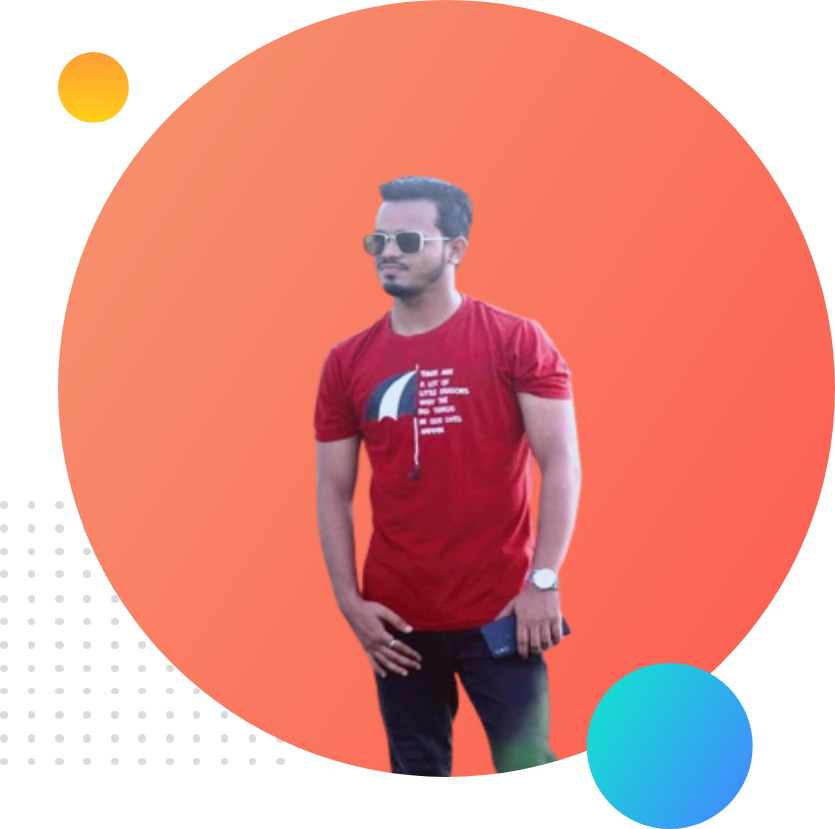
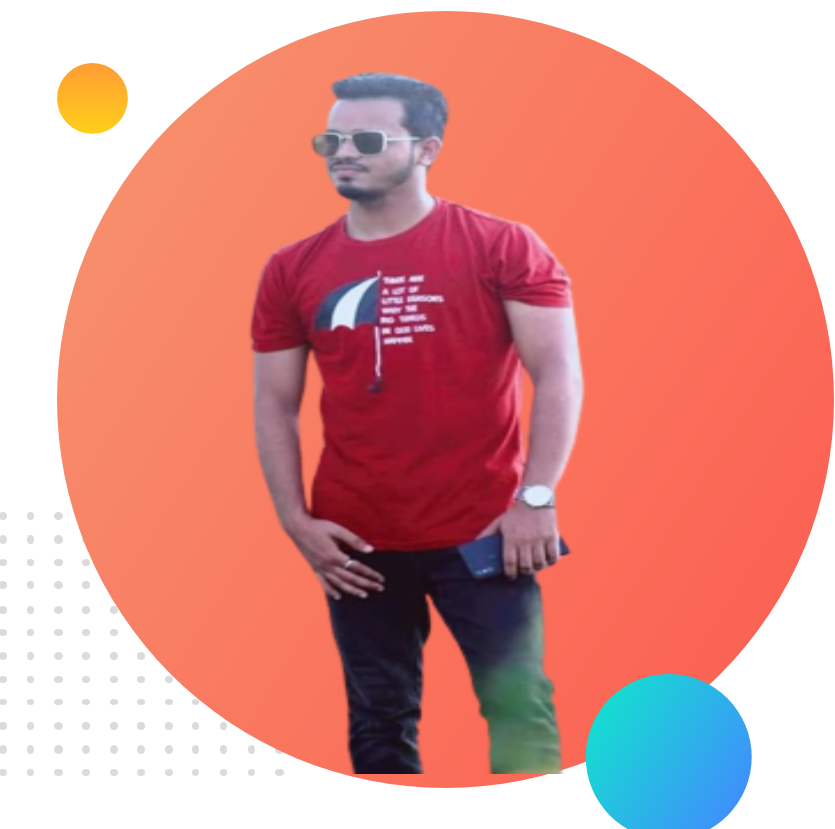
dream added

diff --git a/index.html b/index.html
@@ -32,6 +32,7 @@
             <img src="images/shohan-removebg-preview (1).png" alt="" srcset="">
         </div>
     </section>
+
     <section class="dream-big">
         <div>
             <img src="images/my-bg.png" alt="" srcset="">
@@ -42,8 +43,9 @@
             <p>I already learned the basic HTML and CSS. I can build any simple website. I can even teach my grandma how
                 to make simple website. My goal is to build 3 websites and learn advanced topics.</p>
             <a class="link-button" target="_blank">DOWNLOAD RESUME</a>
+
         </div>
-</section>
+    </section>
 
 
 </body>

diff --git a/style.css b/style.css
@@ -13,16 +13,17 @@ h1 {
 
 section {
     display: flex;
-    margin: none;
+
+
 }
 
 .half-width {
     width: 50%;
-    padding: 2%;
+    padding-left: 10%;
 }
 
 .half-width img {
-    width: 100%;
+    width: 80%;
 }
 
 .link-button {
@@ -40,7 +41,7 @@ section {
 }
 
 .dream-big {
-    background-image: url(images/my-bg.png);
+    background-image: url(images/dream-bg.png);
     background-repeat: no-repeat;
-
+    background-position-x: right;
 }
